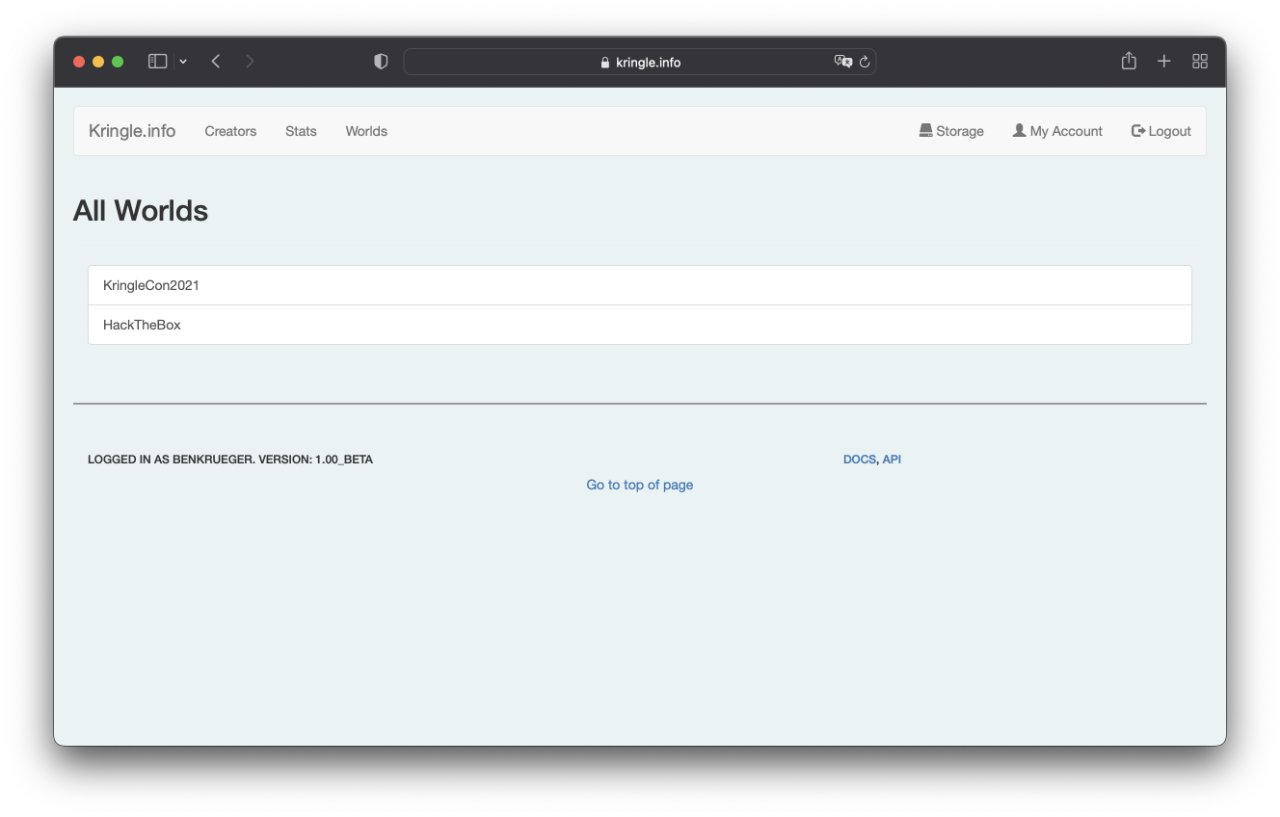
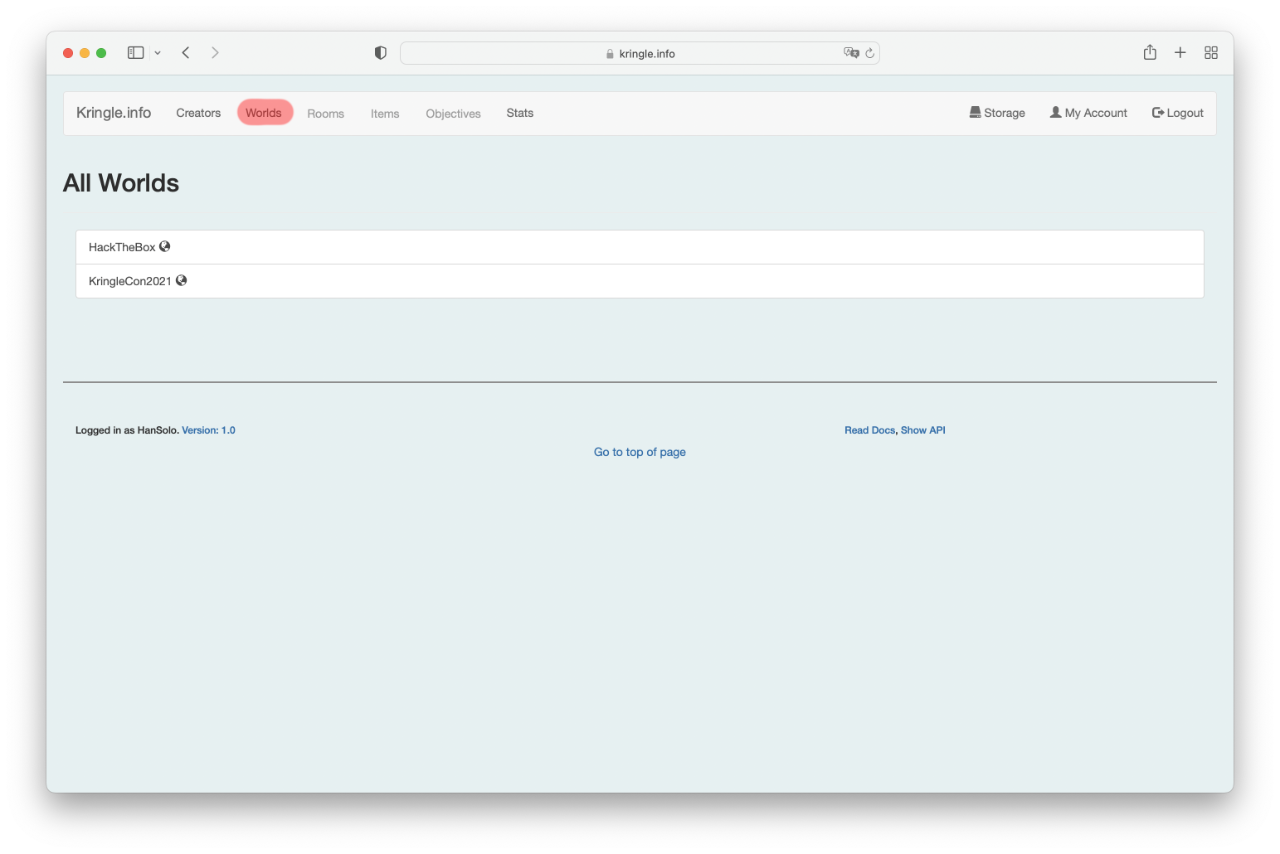
Update docs for worlds

diff --git a/docs/worlds.md b/docs/worlds.md
@@ -3,26 +3,27 @@
 ## All Worlds
 
 You can see which worlds are available by clicking on *Worlds*.  
+Worlds which are public (their solutions can be seen by anyone) have a special badge.  
+
 If you click on an entry, you will be taken to the detailed view.  
 
 ![All Worlds](./img/worlds_all.png)
 
 ## Detailed View
 
-In the detailed view you can inform yourself about the respective world.  
+In the detailed view you can inform yourself about the respective world. The title also shows if this world is public or still closed.    
 When you click on the *creator*, you can jump directly to the detailed view of the respective creator.  
-The field *ID* shows the unique world ID. This ID can be used for the REST API.  
-The *URL* shows the address under which the world can be accessed.  
-The field *Public* indicates whether the world has been released and the solutions submitted for it are publicly visible.  
-The *Description* below provides a brief information about this world.  
+If the world has an image linked, it will be displayed here as well.  
+The *description* box below provides brief information about this world and a link to its homepage/location.  
 
 ![World Detail 1](./img/worlds_detail.png)
 
-Below are some actions you can perform for this world.  
-By clicking on *Select World* you will be taken to the *Rooms and Objectives* section specifically for this world. Here are the individual elements that make up this world.  
-By clicking on *Create Walkthrough* you can create a walkthrough document. On the one hand, this contains the general information about the world, on the other hand, the solutions you have submitted. To do this, you must be logged in (user role "user" or "creator" necessary).  
-By clicking on *Switch Visibility* you can set the status to *public*. Only if the status is public, other people can view submitted solutions. If the world is not public, you only see your own solutions. To do this, you must be logged in and be the creator of this world (user role "creator" necessary).  
-By clicking on *Delete World* this world as well as all elements will be irrevocably deleted. This is only possible as long as no solutions have been submitted. To do this, you must be logged in and be the creator of this world (user role "creator" necessary).  
-When you click on *All worlds* you will get back to the worlds overview.  
+Below are some actions you can perform for this world. Please note that it depends on your role which actions are available.
+* When you click on *All Worlds* you will get back to the worlds overview.  
+* By clicking on *Select World* you will be taken to the *Rooms and Objectives* section specifically for this world. Here are the individual elements that make up this world.  
+* You can edit the name, URL, description or Image URL again by clicking on *Edit World* 
+* By clicking on *Switch Visibility* you can set the status to *public*. Only if the status is public, other people can view submitted solutions. If the world is not public, you only see your own solutions. 
+* By clicking on *Create Walk-through* (Markdown or PDF) you can create a walk-through/solution document. On the one hand, this contains the general information about the world, on the other hand, the solutions you have submitted. 
+* If you click on *Delete World* this world as well as all elements will be irrevocably deleted. Please be cautious as this will also delete any solution submitted for the challenges in this world.
 
 ![World Detail 2](./img/worlds_detail2.png)
